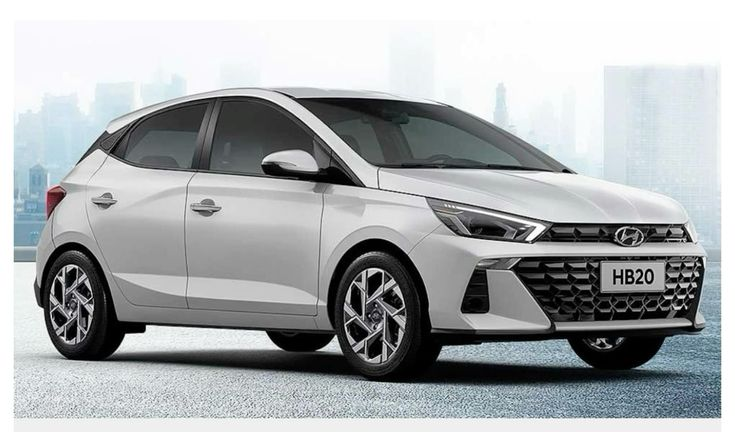
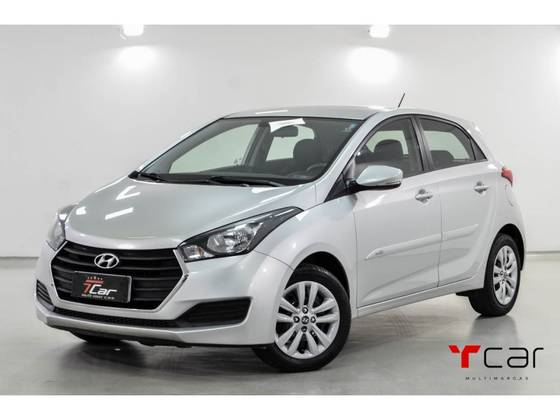
update nas foto dos carro

diff --git a/include/inc-historia-das-marcas.php b/include/inc-historia-das-marcas.php
@@ -52,7 +52,7 @@
 <div class="row g-3">
         <div class="col-3">
             <div class="card h-100">
-                <img src="/img/img/HB20.jpg" class="card-img-top" alt="hb20">
+                <img src="/img/img/hb20.jpg" class="card-img-top" alt="hb20">
                 <div class="card-body d-flex flex-column">
                     <h5 class="card-title">hyundai</h5>
                     <p class="card-text">A trajetória da Hyundai no Brasil é marcada pelo sucesso do modelo HB20, lançado em 2012 junto com a inauguração da fábrica em Piracicaba (SP). A marca consolidou-se no país focando em produtos sob medida e, em 2025, assumiu controle total de sua operação após o fim da parceria histórica com o Grupo CAOA.</p>